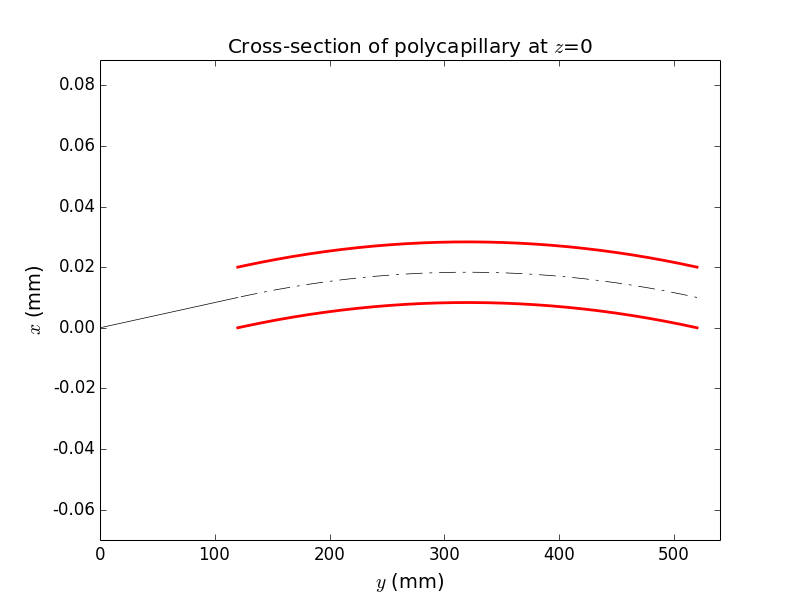
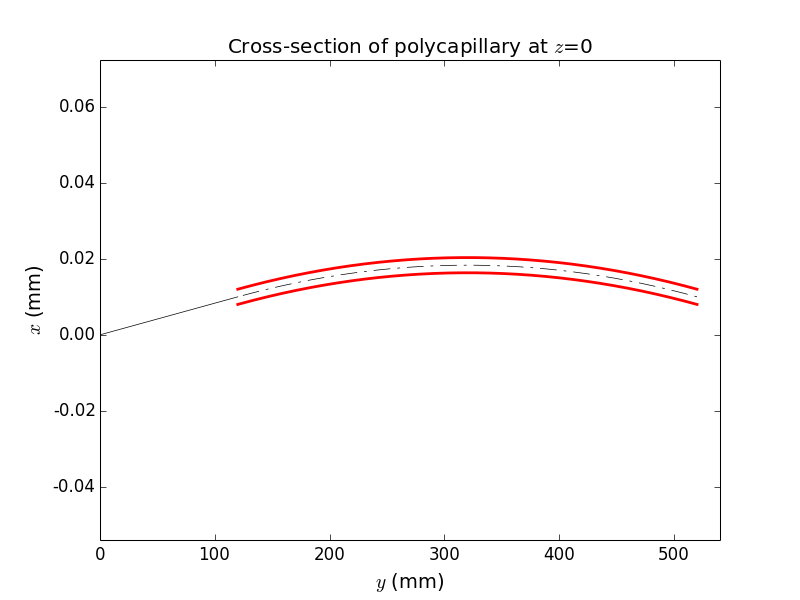
Screen moving away A

diff --git a/simplfiedMonoCapillary.py b/simplfiedMonoCapillary.py
@@ -27,32 +27,35 @@ import xrt.backends.raycing.screens as rsc
 # for saving into .mat file
 import scipy.io
     
+# ray traycing settings    
 mGlass = rm.Material(('Si', 'O'), quantities=(1, 2), rho=2.2)
+repeats = 6*1500    # number of ray traycing iterations
+E0 = 9000.          # energy in electronoVolts
+nRefl = 50          # number of reflections
 
-repeats = 6*1500 # number of ray traycing iterations
-E0 = 9000.
+# capillary shape parameters
 rSample = 120.0 # starting position of the lens
 f = rSample + 400 # y length in mm from foucs to the end of the lens
-screen1_pos = rSample + 100 
-screen2_pos = f + 5 # distance @vincze == 10cm
-max_plots = 0
 r0 = 0.002*1
 rOut = 0.002*1
 wall = 0.0005
-plot2D_yLim = [-0.05, 0.05]
-plot_main_lim = 0.45 # min 2*r0 for capillary entrance imaging
-layers = 10 # number of hexagonal layers
-nRefl = 50 # number of reflections
-nReflDisp = 12 # unused
-xzPrimeMax = 3.
-# Pickle saving: None for no saving
-persistentName=None #'phase_space__energy.pickle'
-# some fun parameter
-y_in    = 0.01
-rS      = float(rSample)
-# go to mathematica and solve for a in sinh(-1/a) == y_in/rS
+
+# parameters for local_x0 function for actual shape definition
+y_in    = 0.01              # entrance height
+rS      = float(rSample)    # light source - capillary distance 
+# Cosh parameter for tangential ray entrance
 a_      = -200.0/np.arcsinh(-y_in/rS)
 print a_, y_in/rS
+
+# image acquisition
+screen1_pos = rSample + 100     # not really used
+screen2_pos = f + 1             # first image position outside capillary
+max_plots = 10                  # for imaging different position at once
+
+# Pickle saving: None for no saving
+persistentName=None #'phase_space__energy.pickle'
+
+
 
 class StraightCapillary(roe.OE):
     def __init__(self, *args, **kwargs):
@@ -146,7 +149,9 @@ def build_beamline(nrays=1000):
     beamLine.fsm2 = rsc.Screen(beamLine,'DiamondFSM2', (0,screen2_pos,0))
     beamLine.myFsms = []
     for it in range(0,max_plots):
-        beamLine.myFsms.append(rsc.Screen(beamLine,'myScreen{0:02d}'.format(it),(0,rSample+145*it,0)))
+        beamLine.myFsms.append(rsc.Screen(beamLine,
+                                          'myScreen{0:02d}'.format(it),
+                                          (0,f +rSample/10*it,0)))
 
     return beamLine
          
@@ -185,9 +190,9 @@ def main():
     beamLine = build_beamline()
     plots = []
 
-    xLimits = [y_in-0.003,y_in+0.003]
+    xLimits = [-0.015, 0.015]
     xpLimits = [-0.15, 0.15]
-    zLimits = [-0.003,0.003]
+    zLimits = xLimits
 #    zLimits = [-r0*1.6, 1.6*r0]
 #    yLimits=None
     cLimits = [-3,3] #[8900,9100]
@@ -225,6 +230,14 @@ def main():
     plots.append(plot)
     
     # ITERATING OVER PLOTS {}
+    for it in range(0,max_plots):
+        plot = xrtp.XYCPlot('myExposedScreen{0:02d}'.format(it), (1,3),
+            xaxis=xrtp.XYCAxis(r'$x$', 'mm', bins=256, ppb=2, limits=xLimits),
+            yaxis=xrtp.XYCAxis(r'$z$', 'mm', bins=256, ppb=2, limits=zLimits),
+            caxis='category', beamState='myExposedScreen{0:02d}'.format(it), title=str(it))
+        plot.baseName = 'thin_cap_dist_' + str(100+it)
+        plot.saveName = plot.baseName + '.png'
+        plots.append(plot)    
     xrtr.run_ray_tracing(plots, repeats=repeats, beamLine=beamLine, processes=1)
     
     # savemat() takes a dict of names later loaded into matlab and objects
